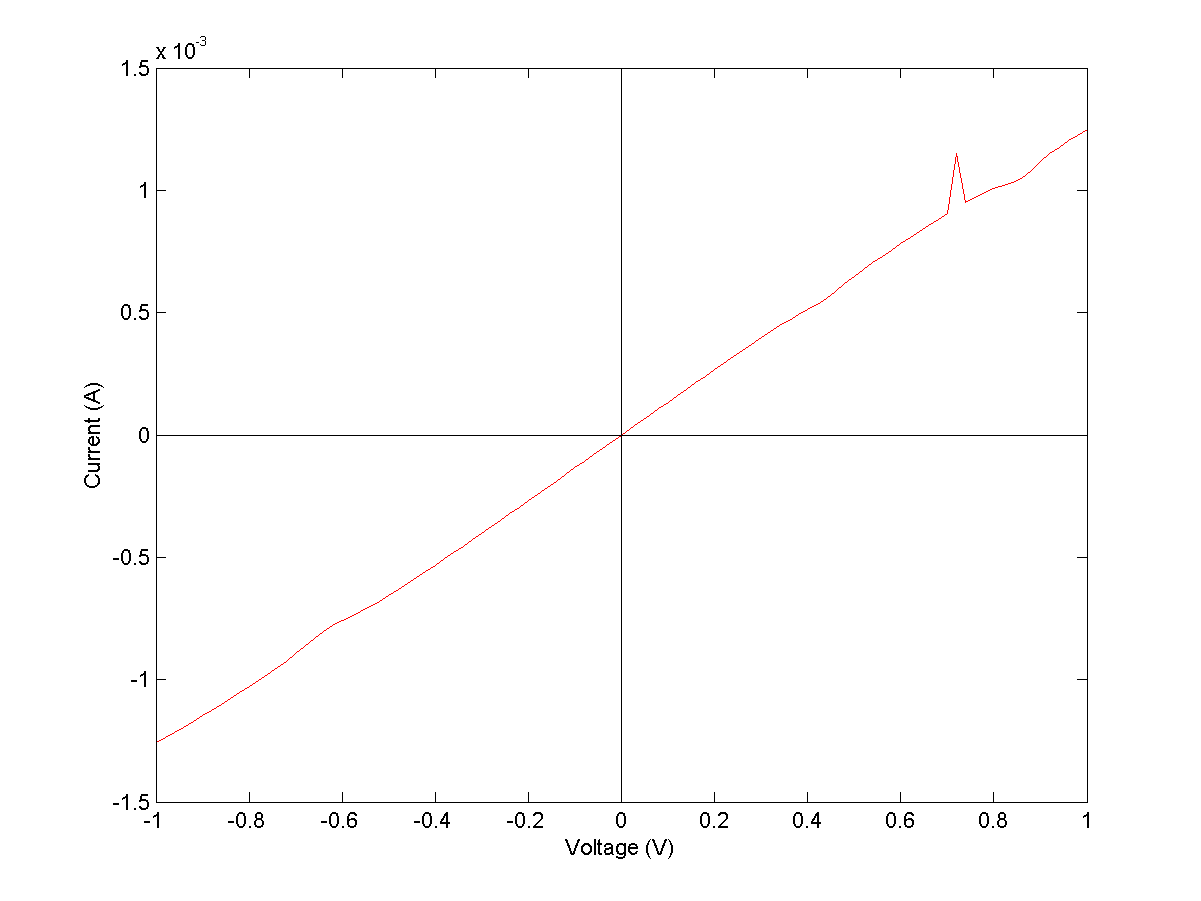
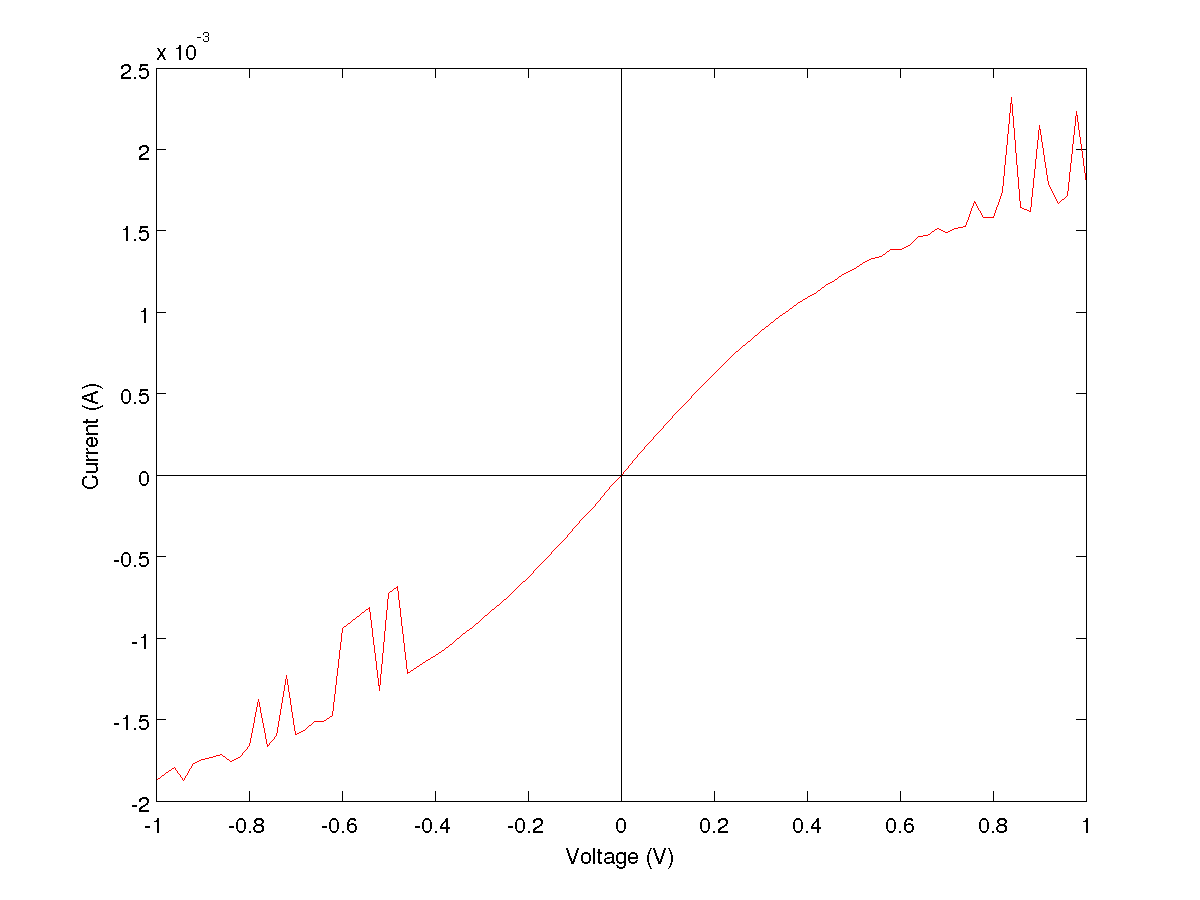
use laplacian, more strict for rho_addition

diff --git a/code/sc_iv_curve.m b/code/sc_iv_curve.m
@@ -49,18 +49,22 @@ D2 = zeros(n0+N-nlead, n0+N-nlead);
 Sigma = zeros([nlead, n0+N-nlead, n0+N-nlead]);
 Gamma = zeros([nlead, n0+N-nlead, n0+N-nlead]);
 
+
 H(1:n0,1:n0) = mol_H;
 S(1:n0,1:n0) = eye(n0) + diag(ones(1,n0-1),1)*0.25 + diag(ones(1,n0-1),-1)*0.25;
 D2(1:n0,1:n0) = -2*eye(n0) + diag(ones(1,n0-1),1) + diag(ones(1,n0-1),-1);
+Laplacian = -2*eye(n0) + diag(ones(1,n0-1),1) + diag(ones(1,n0-1),-1);
 
 ilead = 0;
-iN = n0+1;
+iN = n0 + 1;
+iN2 = n0 + 1;
 for i = 1:N
     ind = extends{i}.coupling_index;
     if extends{i}.part_type == 0
         H(iN, iN) = extends{i}.epsilon;
         H(ind, iN) = extends{i}.coupling';
         H(iN, ind) = extends{i}.coupling;
+        H(ind, ind) = H(ind, ind) + 1;
         S(ind, ind) = S(ind, ind) + 0.5;
         S(iN, iN) = 0.5;
         S(ind, iN) = 0.25;
@@ -69,8 +73,14 @@ for i = 1:N
         D2(iN, iN) = -2;
         D2(ind, iN) = 1;
         D2(iN, ind) = 1;
-        iN = iN + 1;
+        Laplacian(ind,ind) = Laplacian(ind, ind) - 1;
+        iN = iN + 1;     
     end
+    Laplacian(iN2, iN2) = -2;
+    Laplacian(ind, iN2) = 1;
+    Laplacian(iN2, ind) = 1;
+    
+    iN2 = iN2 + 1;
     if extends{i}.part_type == 1
         ilead = ilead + 1;
         Sigma(ilead,ind,ind) = Sigma(ilead,ind,ind) + extends{i}.sigma;         
@@ -87,7 +97,7 @@ maxv = max(abs(voltages));
 fermi = extends{1}.fermi;
 NE = 1001;
 energies = linspace(fermi-maxv/2-8, fermi+maxv/2+3, NE);
-eta = 1e-6;
+eta = 1e-2;
 
 T = zeros(1, NE);
 
@@ -102,7 +112,7 @@ H0 = H;
 
 for i = 1:nv
     fprintf('voltage = %f\n', voltages(i)); 
-    H = get_selfconsistent_hamiltonian(S, H0, Sigma, D2, voltages(i), fermi, kt);
+    H = get_selfconsistent_hamiltonian(S, H0, Sigma, D2, Laplacian, voltages(i), fermi, kt);
 
     for k=1:NE
         G = inv((energies(k)+1j*eta)*S-H-sigmal-sigmar);

diff --git a/code/get_selfconsistent_hamiltonian.m b/code/get_selfconsistent_hamiltonian.m
@@ -1,4 +1,4 @@
-function H = get_selfconsistent_hamiltonian(S, H0, Sigma, D2, voltage, fermi, kt)
+function H = get_selfconsistent_hamiltonian(S, H0, Sigma, D2, Laplacian, voltage, fermi, kt)
 
 N = length(S);
 dU = zeros(N,1) + 1;
@@ -13,13 +13,17 @@ U0 = zeros(N,1) + 1;
 
 mx = mixer(0.1, 6, false);
 
+addition = zeros(2,1);
+addition(1) = voltage/2;
+addition(2) = -voltage/2;
+rho_addition = -Laplacian(:,[7,8])*addition;
+rho_addition = rho_addition(1:6);
+
 while max(abs(dU)) > tol
     D = get_density_matrix(S, H, Sigma, fermi, kt, voltage);
     drho = -4*pi*diag(D-D0);
-    addition = zeros(length(drho),1);
-    addition(1) = voltage/2;
-    addition(5) = -voltage/2;
-    U = inv(D2)*(drho + addition);
+
+    U = inv(D2)*(drho + rho_addition);
 
     dU = U - U0;
     

diff --git a/code/get_negf.m b/code/get_negf.m
@@ -11,7 +11,7 @@ sigma = sigmal + sigmar;
 N = length(S);
 NE = length(energy);
 
-eta = 1e-6;
+eta = 1e-5;
 
 G_lesser = zeros(NE, N, N);
 unit_mat = eye(N);
